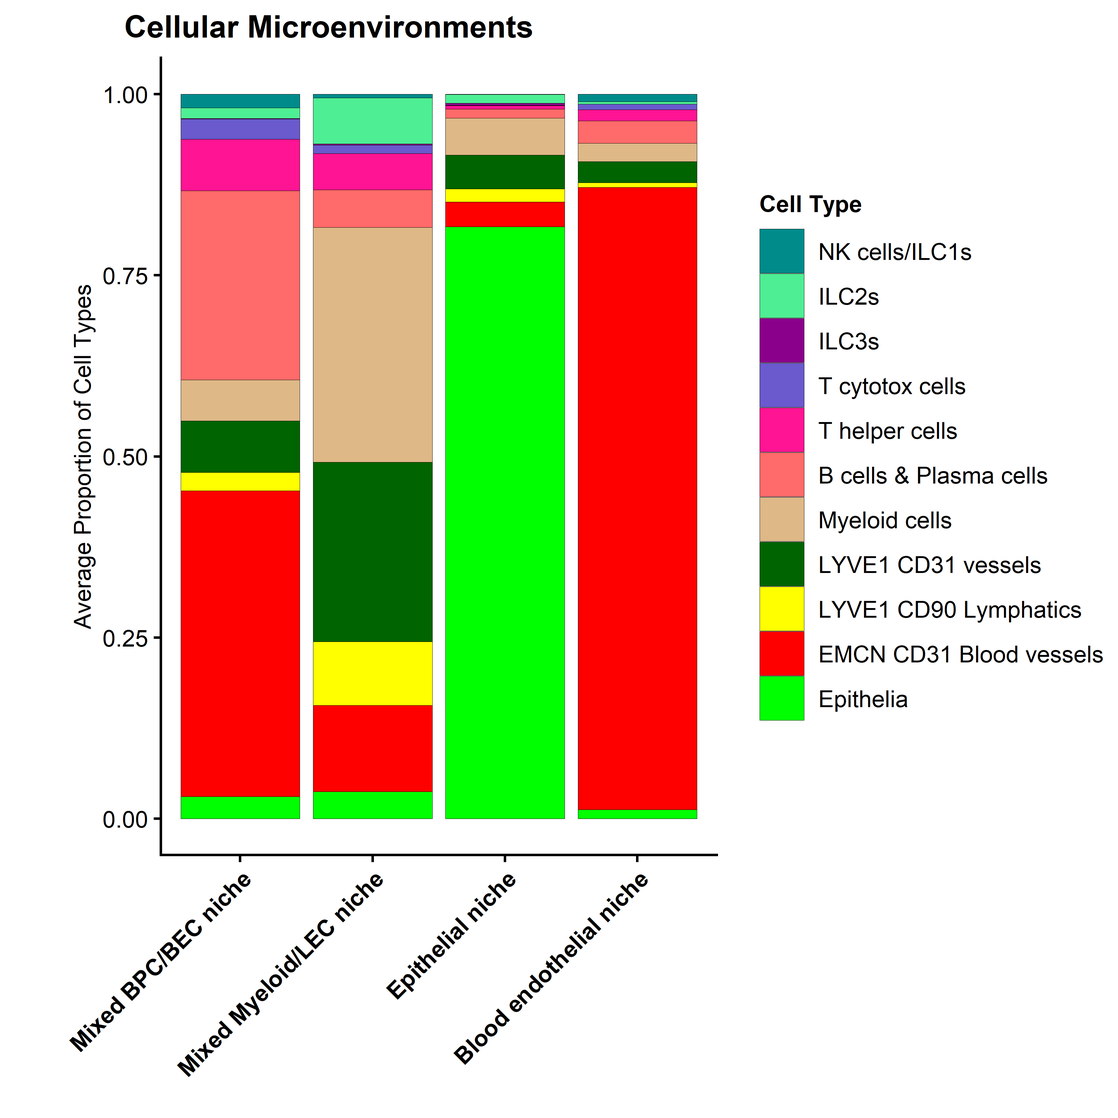
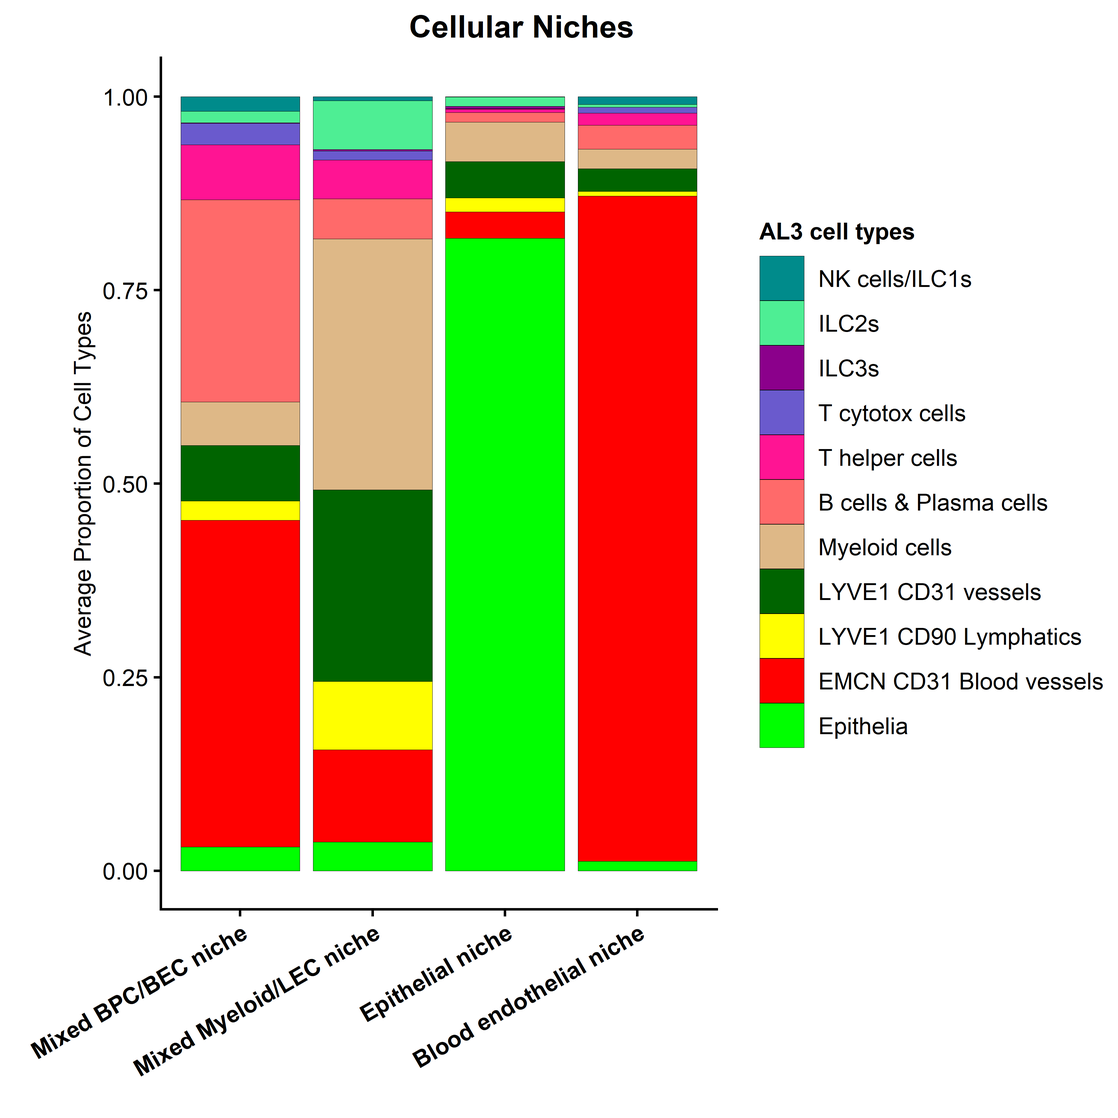
Finalizing figure 6. ILC composition across niches in main figure

diff --git a/2_visualizations_for_figures/Fig_6_Niche_analysis_lung.md b/2_visualizations_for_figures/Fig_6_Niche_analysis_lung.md
@@ -1,10 +1,11 @@
 ---
 title: "Figure 6: Niche analysis mouse lung"
 author: "Sandy Kroh"
-date: "April 17, 2026"
+date: "April 22, 2026"
 output:
   html_document:
     toc: yes
+    toc_float: yes
     number_sections: yes
     fig_caption: yes
     keep_md: yes
@@ -25,25 +26,8 @@ editor_options:
 library(SeuratObject)
 library(dplyr)
 library(rstatix)
-
-# remove.packages("rlang")
-# remove.packages("dplyr")
-# install.packages("rlang")
-# install.packages("dplyr")
 library(rlang)
-library(dplyr)
-
-if (!requireNamespace("Giotto", quietly = TRUE))
-  devtools::install_github("drieslab/Giotto@suite")
-if (!requireNamespace("VoltRon", quietly = TRUE))
-#  devtools::install_github("Artur-man/VoltRon")
-  devtools::install_github("BIMSBbioinfo/VoltRon@dev")
-
-if (!requireNamespace("Seurat", quietly = TRUE))
-  install.packages("Seurat")
-library(Giotto)
 library(Seurat)
-library(VoltRon)
 library(ggplot2)
 library(ggpubr)
 library(readr)
@@ -375,17 +359,17 @@ plot_comp_al3 <- ggplot(niche_composition, aes(x = Tissue_Niche, y = Fraction, f
            linewidth = 0.05) +
   scale_fill_manual(values = ColorsCellType) +
   theme_classic() +
-  labs(title = "Cellular Microenvironments",
-       x = "Identified Tissue Niches", y = "Average Proportion of Cell Types", fill = "Cell Type") +
+  labs(title = "Cellular Niches",
+       x = "Identified Tissue Niches", y = "Average Proportion of Cell Types", fill = "AL3 cell types") +
   theme(
-    axis.text.x = element_text(angle = 45, face = "bold", size = 9 , 
+    axis.text.x = element_text(angle = 30, face = "bold", size = 9 , 
                                    hjust = 1),
     axis.title.x = element_blank(),
     axis.text.y = element_text(size = 9),
     axis.title.y = element_text(size = 9),
     legend.title = element_text(size = 9, face = "bold"),
     legend.text = element_text(size = 9),
-    plot.title = element_text(face = "bold", hjust = -0.25, size = 12), 
+    plot.title = element_text(face = "bold", hjust = 0.75, size = 12), 
     plot.margin = margin(0.2, 0, 0.5, 1, "cm"))
 
 print(plot_comp_al3)
@@ -393,13 +377,15 @@ print(plot_comp_al3)
 
 <img src="Fig_6_Niche_analysis_lung_files/figure-html/unnamed-chunk-5-1.png" alt="" width="100%" style="display: block; margin: auto;" />
 
+
 ``` r
+set.seed(8)
+
 niche_composition <- df_all %>%
   group_by(Tissue_Niche, AL1) %>%
   summarise(Count = n(), .groups = "drop") %>%
   group_by(Tissue_Niche) %>%
   mutate(Fraction = Count / sum(Count))
-
 
 table_plot_al1 <- ggtexttable(niche_composition, 
                           rows = NULL
@@ -422,13 +408,14 @@ plot_comp_al1 <- ggplot(niche_composition, aes(x = Tissue_Niche, y = Fraction, f
     axis.title.y = element_text(size = 9),
     legend.title = element_text(size = 9, face = "bold"),
     legend.text = element_text(size = 9),
+    legend.position = "bottom", 
     plot.title = element_blank(), 
-    plot.margin = margin(0, 0, 0, 0.5, "cm"))
+    plot.margin = margin(0, 0, 0, 0.6, "cm"))
 
 print(plot_comp_al1)
 ```
 
-<img src="Fig_6_Niche_analysis_lung_files/figure-html/unnamed-chunk-5-2.png" alt="" width="100%" style="display: block; margin: auto;" />
+<img src="Fig_6_Niche_analysis_lung_files/figure-html/unnamed-chunk-6-1.png" alt="" width="100%" style="display: block; margin: auto;" />
 
 
 ``` r
@@ -465,27 +452,27 @@ plot_comp_ilc <- ggplot(niche_composition,
            linewidth = 0.05) +
   scale_fill_manual(values = ColorsCellType) +
   theme_classic() +
-  labs(title = "AL3 ILC-subtypes - Cellular Microenvironments",
+  labs(title = "ILC subtypes across niches",
        x = "Identified Tissue Niches", 
        y = "Average Proportion of Cell Types", 
        # CHANGED legend title here
        fill = "AL3 ILC subtypes") + 
   theme(
-    axis.text.x = element_text(angle = 45, face = "bold", size = 9, 
+    axis.text.x = element_text(angle = 30, face = "bold", size = 9 , 
                                    hjust = 1),
     axis.title.x = element_blank(),
     axis.text.y = element_text(size = 9),
     axis.title.y = element_text(size = 9),
     legend.title = element_text(size = 9, face = "bold"),
     legend.text = element_text(size = 9),
-    plot.title = element_blank(), 
-    plot.margin = margin(0, 0, 0, 0.5, "cm"))
+    plot.title = element_text(face = "bold", hjust = -0.25, size = 12), 
+    plot.margin = margin(0.2, 0, 0.5, 1, "cm"))
 
 
 print(plot_comp_ilc)
 ```
 
-<img src="Fig_6_Niche_analysis_lung_files/figure-html/unnamed-chunk-6-1.png" alt="" width="100%" style="display: block; margin: auto;" />
+<img src="Fig_6_Niche_analysis_lung_files/figure-html/unnamed-chunk-7-1.png" alt="" width="100%" style="display: block; margin: auto;" />
 
 
 ``` r
@@ -523,7 +510,7 @@ table_plot_al3 <- ggtexttable(niche_composition_al3,
 print(table_plot_al3)
 ```
 
-<img src="Fig_6_Niche_analysis_lung_files/figure-html/unnamed-chunk-7-1.png" alt="" width="100%" style="display: block; margin: auto;" />
+<img src="Fig_6_Niche_analysis_lung_files/figure-html/unnamed-chunk-8-1.png" alt="" width="100%" style="display: block; margin: auto;" />
 
 ``` r
 # AL1 ---------------------------------------------------------------------------
@@ -544,7 +531,7 @@ table_plot_al1 <- ggtexttable(niche_composition_al1,
 print(table_plot_al1)
 ```
 
-<img src="Fig_6_Niche_analysis_lung_files/figure-html/unnamed-chunk-7-2.png" alt="" width="100%" style="display: block; margin: auto;" />
+<img src="Fig_6_Niche_analysis_lung_files/figure-html/unnamed-chunk-8-2.png" alt="" width="100%" style="display: block; margin: auto;" />
 
 ``` r
 # AL3 ILCs ---------------------------------------------------------------------------
@@ -579,7 +566,7 @@ table_plot_ilc <- ggtexttable(niche_composition_ilc,
 print(table_plot_ilc)
 ```
 
-<img src="Fig_6_Niche_analysis_lung_files/figure-html/unnamed-chunk-7-3.png" alt="" width="100%" style="display: block; margin: auto;" />
+<img src="Fig_6_Niche_analysis_lung_files/figure-html/unnamed-chunk-8-3.png" alt="" width="100%" style="display: block; margin: auto;" />
 
 
 ``` r
@@ -601,7 +588,7 @@ fov_composition <- fov_composition %>%
 # If you have 35+ FOVs, it is often better to facet them so they are readable
 lower_supp_plot <- ggplot(fov_composition, aes(x = FullInfo, y = Fraction, fill = Tissue_Niche)) +
   geom_bar(stat = "identity", position = "stack", color = "black", 
-           linewidth = 0.05) +
+           linewidth = 0.01) +
   facet_grid(~Condition, scales = "free_x", space = "free_x") +
   ggtitle("Cellular niches across acquired tissue regions") +
   scale_fill_manual(values = niche_colors) +
@@ -626,14 +613,15 @@ lower_supp_plot <- ggplot(fov_composition, aes(x = FullInfo, y = Fraction, fill 
     legend.text = element_text(size = 9),
     axis.text.y = element_text(size = 9),
     axis.title.y = element_text(size = 10, face = "bold"),
-    legend.position = "right",
+    legend.position = "bottom",
     plot.title = element_text(face = "bold", hjust = 0.5)
-  )
+  )+
+  guides(fill = guide_legend(ncol = 1))
 
 lower_supp_plot
 ```
 
-<img src="Fig_6_Niche_analysis_lung_files/figure-html/unnamed-chunk-8-1.png" alt="" width="100%" style="display: block; margin: auto;" />
+<img src="Fig_6_Niche_analysis_lung_files/figure-html/unnamed-chunk-9-1.png" alt="" width="100%" style="display: block; margin: auto;" />
 
 ## Niche abundance
 
@@ -703,7 +691,7 @@ for (target_niche in all_niches) {
     scale_y_continuous(expand = c(0, 0.5), limits = c(0,90))+
     theme_classic() + 
     theme(
-      axis.text.x = element_text(angle = 45, size = 9, face = "bold" , 
+      axis.text.x = element_text(angle = 30, size = 9, face = "bold" , 
                                      hjust = 1),
       axis.title.x = element_blank(),
       axis.text.y = element_text(size = 9),
@@ -734,9 +722,9 @@ for (target_niche in all_niches) {
 
 # --- 3. COMBINE INTO GRID ---
 if (length(niche_plot_list) > 0) {
-  final_niche_grid <- wrap_plots(niche_plot_list, ncol = 2) +
+  final_niche_grid <- wrap_plots(niche_plot_list, ncol = 4) +
     plot_annotation(
-      title = "Cellular Niche Abundance\nacross Conditions\n",
+      title = "Cellular Niche Abundance across Conditions",
       theme = theme(
         plot.title = element_text(size = 12, face = "bold", hjust = 0.5)
         )
@@ -746,17 +734,22 @@ if (length(niche_plot_list) > 0) {
 }
 ```
 
-<img src="Fig_6_Niche_analysis_lung_files/figure-html/unnamed-chunk-9-1.png" alt="" width="100%" style="display: block; margin: auto;" />
+<img src="Fig_6_Niche_analysis_lung_files/figure-html/unnamed-chunk-10-1.png" alt="" width="100%" style="display: block; margin: auto;" />
 
 
 ``` r
-upper_fig <- ggarrange(plot_comp_al3, final_niche_grid, ncol = 2, nrow = 1, 
-          widths = c(3.5, 4) , labels = c("A", "B"))
+upper_fig <- ggarrange(plot_comp_al3, plot_comp_ilc, 
+                       ncol = 2, nrow = 1, 
+                       widths = c(4, 3) ,
+                       labels = c("A", "B"))
+
+upper_fig <- ggarrange(upper_fig, final_niche_grid, ncol = 1, nrow = 2,
+          heights = c(6, 3) , labels = c("", "C"))
 
 upper_fig
 ```
 
-<img src="Fig_6_Niche_analysis_lung_files/figure-html/unnamed-chunk-10-1.png" alt="" width="100%" style="display: block; margin: auto;" />
+<img src="Fig_6_Niche_analysis_lung_files/figure-html/unnamed-chunk-11-1.png" alt="" width="100%" style="display: block; margin: auto;" />
 
 ## Cellular composition across conditions
 
@@ -819,7 +812,7 @@ for (current_niche in all_niches) {
       scale_color_manual(values = cols_treat) +
       theme_classic() +
     theme(
-      axis.text.x = element_text(angle = 45, size = 9, face = "bold" , 
+      axis.text.x = element_text(angle = 30, size = 9, face = "bold" , 
                                      hjust = 1),
       axis.title.x = element_blank(),
       axis.text.y = element_text(size = 9),
@@ -858,7 +851,7 @@ for (current_niche in all_niches) {
 }
 ```
 
-<img src="Fig_6_Niche_analysis_lung_files/figure-html/unnamed-chunk-11-1.png" alt="" width="100%" style="display: block; margin: auto;" /><img src="Fig_6_Niche_analysis_lung_files/figure-html/unnamed-chunk-11-2.png" alt="" width="100%" style="display: block; margin: auto;" /><img src="Fig_6_Niche_analysis_lung_files/figure-html/unnamed-chunk-11-3.png" alt="" width="100%" style="display: block; margin: auto;" /><img src="Fig_6_Niche_analysis_lung_files/figure-html/unnamed-chunk-11-4.png" alt="" width="100%" style="display: block; margin: auto;" />
+<img src="Fig_6_Niche_analysis_lung_files/figure-html/unnamed-chunk-12-1.png" alt="" width="100%" style="display: block; margin: auto;" /><img src="Fig_6_Niche_analysis_lung_files/figure-html/unnamed-chunk-12-2.png" alt="" width="100%" style="display: block; margin: auto;" /><img src="Fig_6_Niche_analysis_lung_files/figure-html/unnamed-chunk-12-3.png" alt="" width="100%" style="display: block; margin: auto;" /><img src="Fig_6_Niche_analysis_lung_files/figure-html/unnamed-chunk-12-4.png" alt="" width="100%" style="display: block; margin: auto;" />
 
 
 ``` r
@@ -933,7 +926,7 @@ annotate_figure(
   )
 ```
 
-<img src="Fig_6_Niche_analysis_lung_files/figure-html/unnamed-chunk-12-1.png" alt="" width="100%" style="display: block; margin: auto;" />
+<img src="Fig_6_Niche_analysis_lung_files/figure-html/unnamed-chunk-13-1.png" alt="" width="100%" style="display: block; margin: auto;" />
 
 
 ``` r
@@ -987,14 +980,16 @@ plot_stru_niches_all <- ggarrange(
 # 4. Add the Global Title
 plot_cell_comp_niche <- annotate_figure(
   plot_stru_niches_all, 
-  top = text_grob("Cellular composition across niches\n", color = "black", 
-                  face = "bold", size = 14)
+  left = text_grob("______________________________________________________________________ Cellular composition across niches _______________________________________________________________________", 
+                   color = "black", 
+                   # face = "bold", 
+                   size = 14, rot = 90)
 )
 
 plot_cell_comp_niche
 ```
 
-<img src="Fig_6_Niche_analysis_lung_files/figure-html/unnamed-chunk-13-1.png" alt="" width="100%" style="display: block; margin: auto;" />
+<img src="Fig_6_Niche_analysis_lung_files/figure-html/unnamed-chunk-14-1.png" alt="" width="100%" style="display: block; margin: auto;" />
 
 ## Spatial distribution of identified niches
 
@@ -1091,7 +1086,7 @@ niche_map_grid <- wrap_plots(final_plot_list, ncol = 9) +
 print(niche_map_grid)
 ```
 
-<img src="Fig_6_Niche_analysis_lung_files/figure-html/unnamed-chunk-14-1.png" alt="" width="100%" style="display: block; margin: auto;" />
+<img src="Fig_6_Niche_analysis_lung_files/figure-html/unnamed-chunk-15-1.png" alt="" width="100%" style="display: block; margin: auto;" />
 
 
 ``` r
@@ -1210,7 +1205,7 @@ final_atlas <- (grid_ctrl | grid_d3) / legend_plot +
 print(final_atlas)
 ```
 
-<img src="Fig_6_Niche_analysis_lung_files/figure-html/unnamed-chunk-15-1.png" alt="" width="100%" style="display: block; margin: auto;" />
+<img src="Fig_6_Niche_analysis_lung_files/figure-html/unnamed-chunk-16-1.png" alt="" width="100%" style="display: block; margin: auto;" />
 
 ## Proliferation
 
@@ -1299,7 +1294,7 @@ final_ki67_plot <- wrap_plots(ki67_plots, ncol = 3) +
 print(final_ki67_plot)
 ```
 
-<img src="Fig_6_Niche_analysis_lung_files/figure-html/unnamed-chunk-16-1.png" alt="" width="100%" style="display: block; margin: auto;" />
+<img src="Fig_6_Niche_analysis_lung_files/figure-html/unnamed-chunk-17-1.png" alt="" width="100%" style="display: block; margin: auto;" />
 
 
 ``` r
@@ -1411,7 +1406,7 @@ for (current_niche in all_niches) {
 }
 ```
 
-<img src="Fig_6_Niche_analysis_lung_files/figure-html/unnamed-chunk-17-1.png" alt="" width="100%" style="display: block; margin: auto;" /><img src="Fig_6_Niche_analysis_lung_files/figure-html/unnamed-chunk-17-2.png" alt="" width="100%" style="display: block; margin: auto;" /><img src="Fig_6_Niche_analysis_lung_files/figure-html/unnamed-chunk-17-3.png" alt="" width="100%" style="display: block; margin: auto;" /><img src="Fig_6_Niche_analysis_lung_files/figure-html/unnamed-chunk-17-4.png" alt="" width="100%" style="display: block; margin: auto;" />
+<img src="Fig_6_Niche_analysis_lung_files/figure-html/unnamed-chunk-18-1.png" alt="" width="100%" style="display: block; margin: auto;" /><img src="Fig_6_Niche_analysis_lung_files/figure-html/unnamed-chunk-18-2.png" alt="" width="100%" style="display: block; margin: auto;" /><img src="Fig_6_Niche_analysis_lung_files/figure-html/unnamed-chunk-18-3.png" alt="" width="100%" style="display: block; margin: auto;" /><img src="Fig_6_Niche_analysis_lung_files/figure-html/unnamed-chunk-18-4.png" alt="" width="100%" style="display: block; margin: auto;" />
 
 # Visualization for figures
 
@@ -1419,23 +1414,20 @@ for (current_niche in all_niches) {
 
 
 ``` r
-ggarrange(upper_fig, "NONE", final_atlas, ncol = 1, nrow = 3, heights = c(5, 0.5, 6), 
-          labels = c("", "", "C"), label.y = 1.06)
+ggarrange(upper_fig, "NONE", final_atlas, ncol = 1, nrow = 3, heights = c(5, 0.1, 4), 
+          labels = c("", "", "D"), label.y = 1.06)
 ```
 
-<img src="Fig_6_Niche_analysis_lung_files/figure-html/unnamed-chunk-18-1.png" alt="" width="100%" style="display: block; margin: auto;" />
+<img src="Fig_6_Niche_analysis_lung_files/figure-html/unnamed-chunk-19-1.png" alt="" width="100%" style="display: block; margin: auto;" />
 
 ## Supplementary figures
 
 
 ``` r
-upper_supp_plot <- ggarrange(plot_comp_al1, "NONE", plot_comp_ilc, ncol = 3, nrow = 1, 
-          widths = c(10, 1, 10), labels = c("A", "B", ""))
-
-ggarrange(upper_supp_plot, "NONE", lower_supp_plot, ncol = 1, nrow = 3, labels = c("", "", "C"), heights = c(10, 1, 10))
+ggarrange(plot_comp_al1, "NONE", lower_supp_plot, ncol = 3, nrow = 1, labels = c("A", "", "B"), widths = c(5, 0.4, 10))
 ```
 
-<img src="Fig_6_Niche_analysis_lung_files/figure-html/unnamed-chunk-19-1.png" alt="" width="100%" style="display: block; margin: auto;" />
+<img src="Fig_6_Niche_analysis_lung_files/figure-html/unnamed-chunk-20-1.png" alt="" width="100%" style="display: block; margin: auto;" />
 
 
 ``` r
@@ -1503,13 +1495,6 @@ ggplot(cell_comp_per_niche, aes(x = FullInfo, y = Fraction, fill = CellType)) +
     plot.subtitle = element_text(hjust = 0.5, size = 10, color = "gray30"),
     panel.spacing.y = unit(1, "lines") # Add a bit of space between niche rows
   )
-```
-
-<img src="Fig_6_Niche_analysis_lung_files/figure-html/unnamed-chunk-20-1.png" alt="" width="100%" style="display: block; margin: auto;" />
-
-
-``` r
-plot_cell_comp_niche
 ```
 
 <img src="Fig_6_Niche_analysis_lung_files/figure-html/unnamed-chunk-21-1.png" alt="" width="100%" style="display: block; margin: auto;" />
@@ -1591,8 +1576,10 @@ plot_stru_niches_all <- ggarrange(
 # 4. Add the Global Title
 annotate_figure(
   plot_stru_niches_all, 
-  top = text_grob("Cellular composition across niches\n", color = "black", 
-                  face = "bold", size = 14)
+  left = text_grob("______________________________________________________________________ Cellular composition across niches and conditions _______________________________________________________________________", 
+                   color = "black", 
+                   # face = "bold", 
+                   size = 12, rot = 90)
 )
 ```
 
@@ -1624,12 +1611,10 @@ sessionInfo()
 ## [1] stats     graphics  grDevices utils     datasets  methods   base     
 ## 
 ## other attached packages:
-##  [1] dbscan_1.2.3       patchwork_1.3.2    tidyr_1.3.1        stringr_1.6.0      ggbeeswarm_0.7.3   readr_2.1.6        ggpubr_0.6.2       ggplot2_4.0.1      VoltRon_0.2.3      Seurat_5.3.1       Giotto_4.2.2       GiottoClass_0.4.10 rlang_1.1.6        rstatix_0.7.3      dplyr_1.1.4        SeuratObject_5.2.0 sp_2.2-0          
+##  [1] dbscan_1.2.3       patchwork_1.3.2    tidyr_1.3.1        stringr_1.6.0      ggbeeswarm_0.7.3   readr_2.1.6        ggpubr_0.6.2       ggplot2_4.0.1      Seurat_5.3.1       rlang_1.1.6        rstatix_0.7.3      dplyr_1.1.4        SeuratObject_5.2.0 sp_2.2-0          
 ## 
 ## loaded via a namespace (and not attached):
-##   [1] matrixStats_1.5.0           spatstat.sparse_3.1-0       bitops_1.0-9                EBImage_4.52.0              httr_1.4.8                  RColorBrewer_1.1-3          tools_4.5.2                 sctransform_0.4.2           backports_1.5.0             utf8_1.2.6                  R6_2.6.1                    lazyeval_0.2.2              uwot_0.2.4                  withr_3.0.2                 gridExtra_2.3               GiottoUtils_0.2.5           progressr_0.18.0            cli_3.6.5                   Biobase_2.70.0              spatstat.explore_3.5-3      fastDummies_1.7.5           shinyjs_2.1.1               labeling_0.4.3              sass_0.4.10                 S7_0.2.0                    spatstat.data_3.1-9         ggridges_0.5.7              pbapply_1.7-4               dichromat_2.0-0.1           parallelly_1.45.1           rstudioapi_0.18.0           generics_0.1.4              vroom_1.7.0                 gtools_3.9.5                ica_1.0-3                   spatstat.random_3.4-2       car_3.1-5                   Matrix_1.7-4                S4Vectors_0.48.0            abind_1.4-8                 terra_1.8-93                lifecycle_1.0.5            
-##  [43] scatterplot3d_0.3-45        yaml_2.3.10                 carData_3.0-6               SummarizedExperiment_1.40.0 gplots_3.3.0                SparseArray_1.10.1          Rtsne_0.17                  grid_4.5.2                  promises_1.5.0              crayon_1.5.3                miniUI_0.1.2                lattice_0.22-7              beachmat_2.26.0             cowplot_1.2.0               magick_2.9.0                pillar_1.11.1               knitr_1.51                  GenomicRanges_1.62.0        rjson_0.2.23                future.apply_1.20.2         codetools_0.2-20            glue_1.8.0                  spatstat.univar_3.1-4       data.table_1.17.8           vctrs_0.6.5                 png_0.1-8                   ids_1.0.1                   spam_2.11-1                 gtable_0.3.6                cachem_1.1.0                xfun_0.56                   S4Arrays_1.10.0             mime_0.13                   tidygraph_1.3.1             Seqinfo_1.0.0               survival_3.8-3              SingleCellExperiment_1.32.0 bluster_1.20.0              rgl_1.3.34                  fitdistrplus_1.2-6          ROCR_1.0-12                 colorsGen_1.0.0            
-##  [85] nlme_3.1-168                bit64_4.6.0-1               RcppAnnoy_0.0.22            rprojroot_2.1.1             bslib_0.10.0                irlba_2.3.5.1               vipor_0.4.7                 KernSmooth_2.23-26          otel_0.2.0                  colorspace_2.1-2            BiocGenerics_0.56.0         tidyselect_1.2.1            bit_4.6.0                   compiler_4.5.2              BiocNeighbors_2.4.0         DelayedArray_0.36.0         plotly_4.12.0               checkmate_2.3.4             scales_1.4.0                caTools_1.18.3              lmtest_0.9-40               tiff_0.1-12                 SpatialExperiment_1.20.0    digest_0.6.38               goftest_1.2-3               fftwtools_0.9-11            spatstat.utils_3.2-0        rmarkdown_2.30              XVector_0.50.0              htmltools_0.5.8.1           GiottoVisuals_0.2.14        pkgconfig_2.0.3             jpeg_0.1-11                 base64enc_0.1-6             MatrixGenerics_1.22.0       fastmap_1.2.0               htmlwidgets_1.6.4           shiny_1.13.0                Rvcg_0.25                   farver_2.1.2                jquerylib_0.1.4             zoo_1.8-14                 
-## [127] jsonlite_2.0.0              BiocParallel_1.44.0         BiocSingular_1.26.0         RCurl_1.98-1.17             magrittr_2.0.4              Formula_1.2-5               dotCall64_1.2               RCDT_1.3.0                  Rcpp_1.1.0                  viridis_0.6.5               reticulate_1.44.0           stringi_1.8.7               ggraph_2.2.2                MASS_7.3-65                 plyr_1.8.9                  parallel_4.5.2              listenv_0.10.0              ggrepel_0.9.6               deldir_2.0-4                graphlayouts_1.2.2          splines_4.5.2               tensor_1.5.1                hms_1.1.4                   locfit_1.5-9.12             colorRamp2_0.1.0            igraph_2.2.1                uuid_1.2-2                  spatstat.geom_3.6-0         ggsignif_0.6.4              RcppHNSW_0.6.0              reshape2_1.4.5              stats4_4.5.2                ScaledMatrix_1.18.0         evaluate_1.0.5              tzdb_0.5.0                  tweenr_2.0.3                httpuv_1.6.16               RANN_2.6.2                  purrr_1.2.0                 polyclip_1.10-7             future_1.69.0               scattermore_1.2            
-## [169] ggforce_0.5.0               rsvd_1.0.5                  broom_1.0.12                xtable_1.8-8                RSpectra_0.16-2             later_1.4.4                 viridisLite_0.4.2           Polychrome_1.5.4            tibble_3.3.0                beeswarm_0.4.0              memoise_2.0.1               IRanges_2.44.0              cluster_2.1.8.1             globals_0.19.0              here_1.0.2
+##   [1] RColorBrewer_1.1-3     rstudioapi_0.18.0      jsonlite_2.0.0         magrittr_2.0.4         spatstat.utils_3.2-0   farver_2.1.2           rmarkdown_2.30         vctrs_0.6.5            ROCR_1.0-12            spatstat.explore_3.5-3 htmltools_0.5.8.1      broom_1.0.12           Formula_1.2-5          sass_0.4.10            sctransform_0.4.2      parallelly_1.45.1      KernSmooth_2.23-26     bslib_0.10.0           htmlwidgets_1.6.4      ica_1.0-3              plyr_1.8.9             plotly_4.12.0          zoo_1.8-14             cachem_1.1.0           igraph_2.2.1           mime_0.13              lifecycle_1.0.5        pkgconfig_2.0.3        Matrix_1.7-4           R6_2.6.1               fastmap_1.2.0          fitdistrplus_1.2-6     future_1.69.0          shiny_1.13.0           digest_0.6.38          rprojroot_2.1.1        tensor_1.5.1           RSpectra_0.16-2        irlba_2.3.5.1          labeling_0.4.3         progressr_0.18.0       spatstat.sparse_3.1-0  httr_1.4.8             polyclip_1.10-7        abind_1.4-8            compiler_4.5.2         here_1.0.2             bit64_4.6.0-1          withr_3.0.2            S7_0.2.0               backports_1.5.0       
+##  [52] carData_3.0-6          fastDummies_1.7.5      ggsignif_0.6.4         MASS_7.3-65            tools_4.5.2            vipor_0.4.7            lmtest_0.9-40          otel_0.2.0             beeswarm_0.4.0         httpuv_1.6.16          future.apply_1.20.2    goftest_1.2-3          glue_1.8.0             nlme_3.1-168           promises_1.5.0         grid_4.5.2             Rtsne_0.17             cluster_2.1.8.1        reshape2_1.4.5         generics_0.1.4         gtable_0.3.6           spatstat.data_3.1-9    tzdb_0.5.0             data.table_1.17.8      hms_1.1.4              utf8_1.2.6             car_3.1-5              spatstat.geom_3.6-0    RcppAnnoy_0.0.22       ggrepel_0.9.6          RANN_2.6.2             pillar_1.11.1          vroom_1.7.0            spam_2.11-1            RcppHNSW_0.6.0         later_1.4.4            splines_4.5.2          lattice_0.22-7         bit_4.6.0              survival_3.8-3         deldir_2.0-4           tidyselect_1.2.1       miniUI_0.1.2           pbapply_1.7-4          knitr_1.51             gridExtra_2.3          scattermore_1.2        xfun_0.56              matrixStats_1.5.0      stringi_1.8.7          lazyeval_0.2.2        
+## [103] yaml_2.3.10            evaluate_1.0.5         codetools_0.2-20       tibble_3.3.0           cli_3.6.5              uwot_0.2.4             xtable_1.8-8           reticulate_1.44.0      jquerylib_0.1.4        dichromat_2.0-0.1      Rcpp_1.1.0             globals_0.19.0         spatstat.random_3.4-2  png_0.1-8              spatstat.univar_3.1-4  parallel_4.5.2         dotCall64_1.2          listenv_0.10.0         viridisLite_0.4.2      scales_1.4.0           ggridges_0.5.7         crayon_1.5.3           purrr_1.2.0            cowplot_1.2.0
 ```

diff --git a/2_visualizations_for_figures/Fig_7_spatial_analysis_ILC2s_lung.md b/2_visualizations_for_figures/Fig_7_spatial_analysis_ILC2s_lung.md
@@ -1,7 +1,7 @@
 ---
 title: "Figure 7: ILC2s localize together with lymphatics and myeloid cells"
 author: "Sandy Kroh"
-date: "April 20, 2026"
+date: "April 22, 2026"
 output:
   html_document:
     toc: yes
